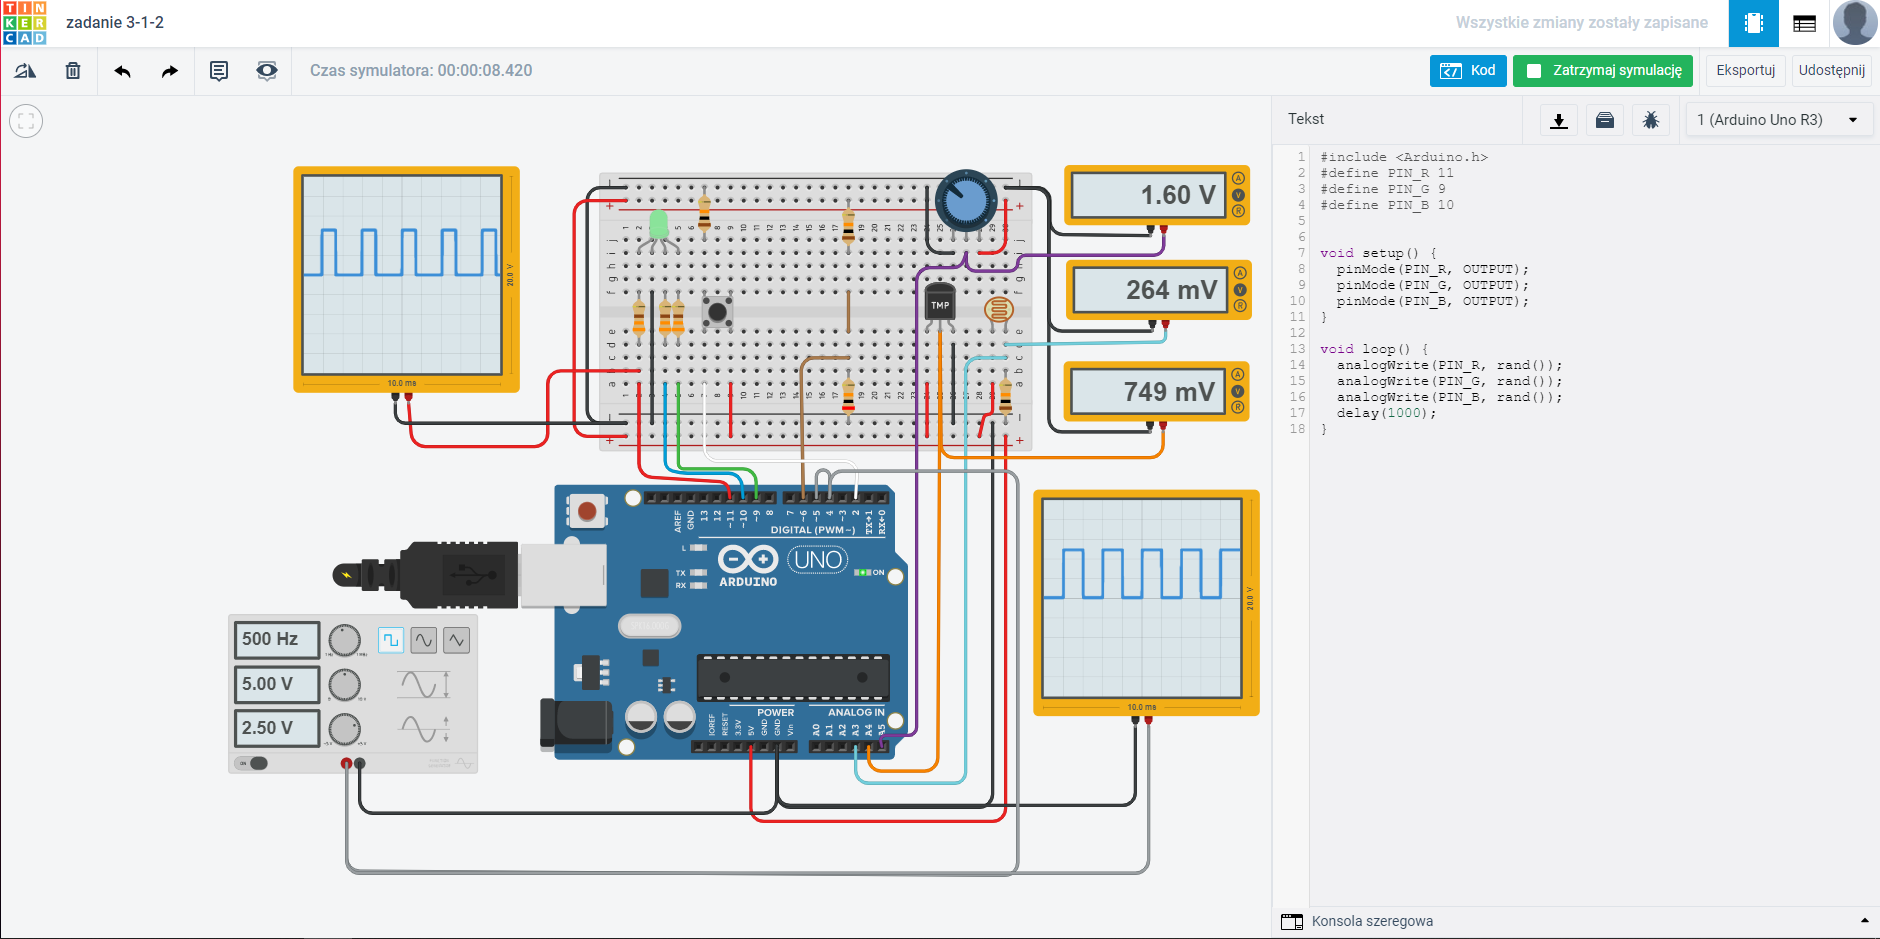
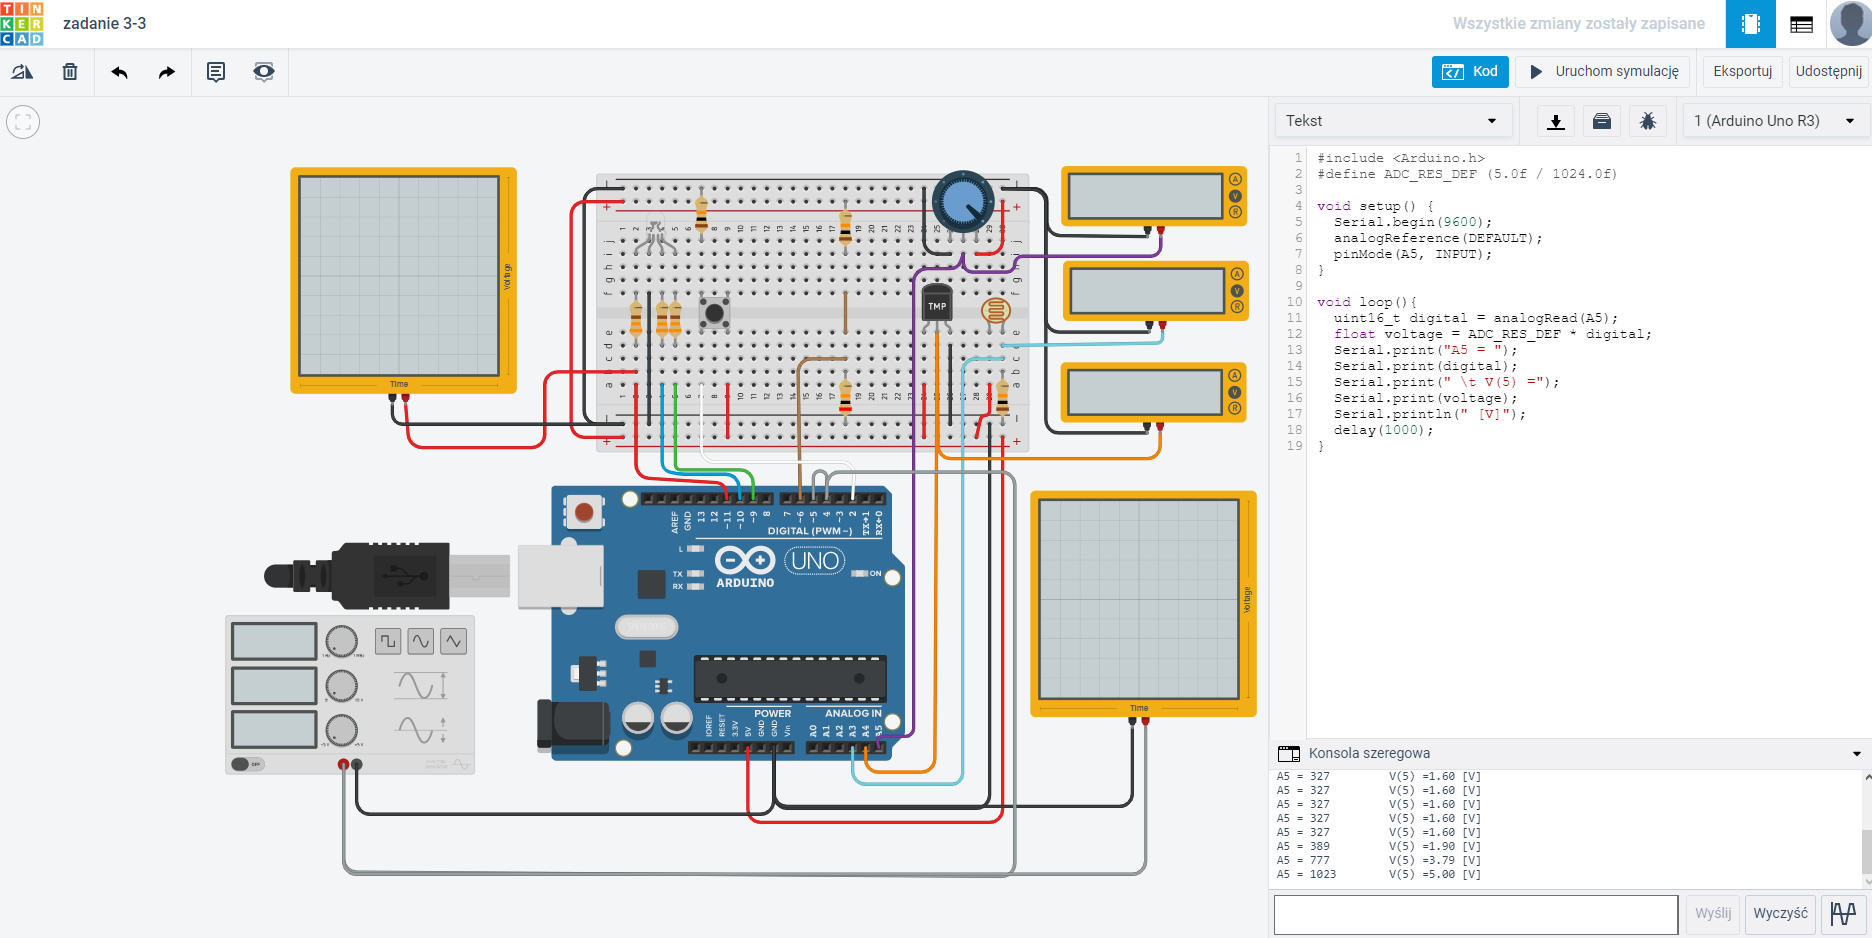
Wykonano zadanie 3.3.1 – analogRead

diff --git a/Zadanie-3-3/src/main.cpp b/Zadanie-3-3/src/main.cpp
@@ -1,9 +1,19 @@
 #include <Arduino.h>
+#define ADC_RES_DEF (5.0f / 1024.0f)
 
 void setup() {
-  // put your setup code here, to run once:
+  Serial.begin(9600);
+  analogReference(DEFAULT);
+  pinMode(A5, INPUT);
 }
 
-void loop() {
-  // put your main code here, to run repeatedly:
+void loop(){
+  uint16_t digital = analogRead(A5);
+  float voltage = ADC_RES_DEF * digital;
+  Serial.print("A5 = ");
+  Serial.print(digital);
+  Serial.print(" \t V(5) =");
+  Serial.print(voltage);
+  Serial.println(" [V]");
+  delay(1000);
 }
